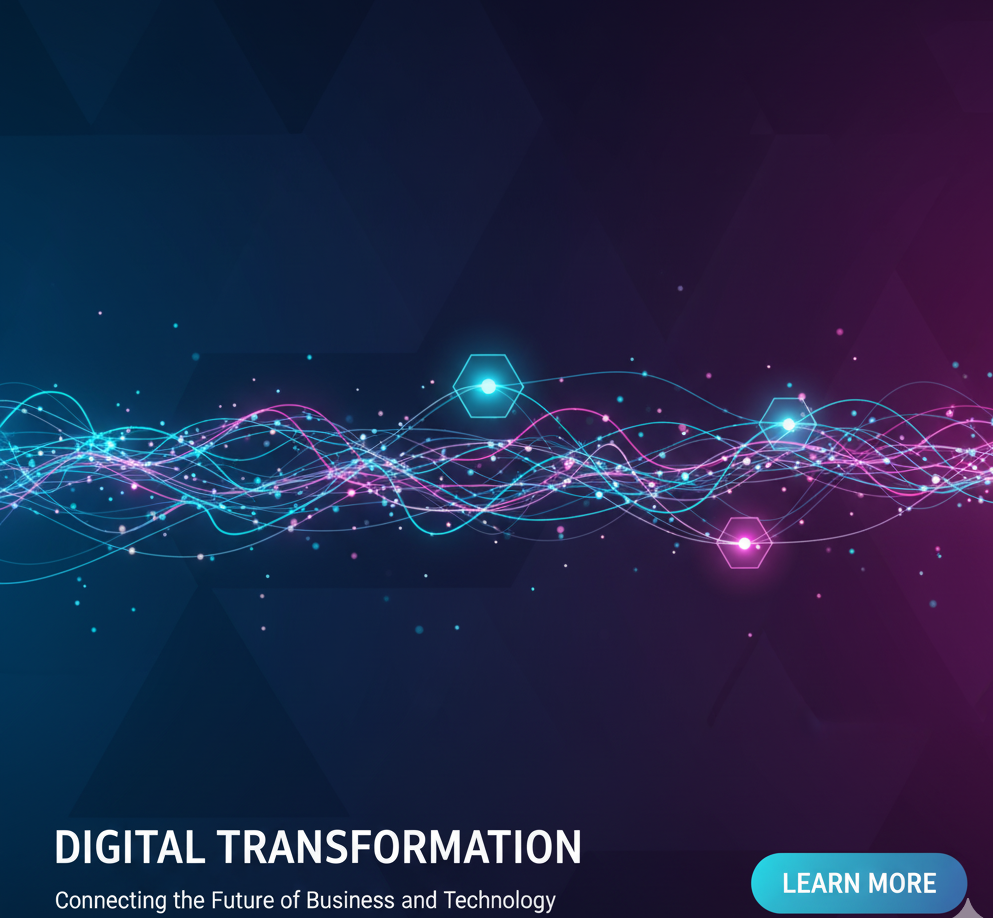
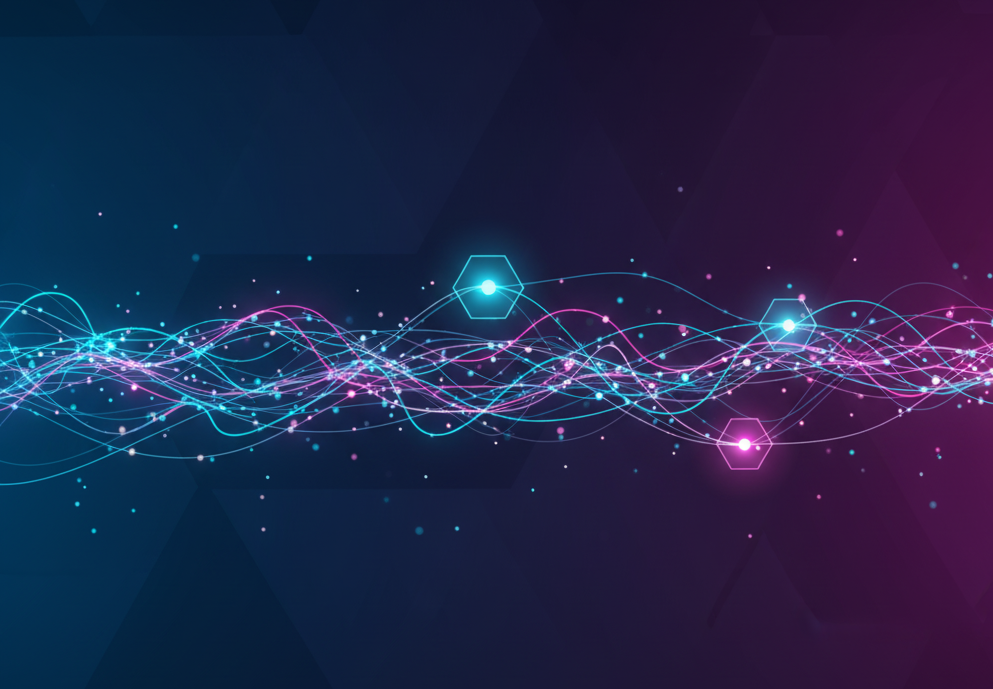
main

diff --git a/index.html b/index.html
@@ -12,7 +12,7 @@
     <link rel="stylesheet" href="css/chat-bot.css">
     <link rel="shortcut icon" href="images/logo1.png" type="image/jpg">
     <style>
-           .fast-accesses {
+        .fast-accesses {
             display: flex;
             justify-content: center;
             align-items: center;
@@ -193,7 +193,7 @@
         <div class="slider-container">
 
             <div class="slide active">
-                <img src="images/home/first.png" alt="Cloud Solutions" class="slide-image">
+                <img src="images/home/home 1[3].png" alt="Cloud Solutions" class="slide-image">
                 <div class="slide-content">
                     <h1><span class="typed-text" id="typed-text"></span></h1>
                 </div>
@@ -275,22 +275,25 @@
                 <h2 class="vid-comp-title">Our Commitment</h2>
                 <div class="vid-comp-list">
                     <div class="vid-comp-item">
-                        <p class="vid-comp-quote">" <b><span style='color:#0074D9;'>Balvirt</b></span>–empowers your business with seamless digital transformation "</p>
+                        <p class="vid-comp-quote">" <b><span style='color:#0074D9;'>Balvirt</b></span>–empowers your
+                            business with seamless digital transformation "</p>
                     </div>
                     <div class="vid-comp-item">
-                        <p class="vid-comp-quote">" <b> <span style='color:#0074D9;'>Balvirt</b></span>– Giving Wings to Your Business Dreams! "</p>
+                        <p class="vid-comp-quote">" <b> <span style='color:#0074D9;'>Balvirt</b></span>– Giving Wings to
+                            Your Business Dreams! "</p>
                     </div>
                     <div class="vid-comp-item">
-                        <p class="vid-comp-quote">" <b> <span style='color:#0074D9;'>Balvirt</b></span>– Simplify, Automate, Dominate! "</p>
+                        <p class="vid-comp-quote">" <b> <span style='color:#0074D9;'>Balvirt</b></span>– Simplify,
+                            Automate, Dominate! "</p>
                     </div>
                 </div>
             </div>
         </div>
-          <div class="fast-accesses">
-    <a href="contact.html" class="contact-btn1">We’re Here to Help</a>
-    <a href="about.html" class="services-btn1">Know More About Us</a>
-    <a href="technology.html" class="carrers-btn1">Explore Our Innovations</a>
-</div>
+        <div class="fast-accesses">
+            <a href="contact.html" class="contact-btn1">We’re Here to Help</a>
+            <a href="about.html" class="services-btn1">Know More About Us</a>
+            <a href="technology.html" class="carrers-btn1">Explore Our Innovations</a>
+        </div>
     </section>
 
     <!-- Footer Section -->
@@ -388,8 +391,9 @@
                 <!-- Newsletter -->
                 <div class="footer-section">
                     <h3 class="footer-title" style="font-size: larger; color: gold;" id="gold">Newsletter</h3>
-                    <p class="newsletter-desc" style="font-size: larger; color: white;">Subscribe to our newsletter for the latest updates and insights.</p>
-                     <form method="POST" action="php/newsletter.php" class="newsletter-form">
+                    <p class="newsletter-desc" style="font-size: larger; color: white;">Subscribe to our newsletter for
+                        the latest updates and insights.</p>
+                    <form method="POST" action="php/newsletter.php" class="newsletter-form">
                         <div class="input-group">
                             <input type="email" name="email" placeholder="Enter your email"
                                 style="font-size: larger; color: white;" required>
@@ -397,114 +401,115 @@
                         </div>
                     </form>
 
-                   
 
-                <!-- Footer Bottom -->
-                <div class="footer-bottom">
-                    <div class="container">
-                        <div class="footer-bottom-content">
+
+                    <!-- Footer Bottom -->
+                    <div class="footer-bottom">
+                        <div class="container">
+                            <div class="footer-bottom-content">
+                            </div>
+                            <p id="footer" style="text-align: center;">&copy; 2025 Balvirt </p>
                         </div>
-                        <p id="footer" style="text-align: center;">&copy; 2025 Balvirt </p>
                     </div>
-                </div>
 
-                <!-- Scroll to Top Button (Now goes to IT Consulting) -->
-                <button class="scroll-to-top">
-                    <i class="fas fa-chevron-up"></i>
-                </button>
+                    <!-- Scroll to Top Button (Now goes to IT Consulting) -->
+                    <button class="scroll-to-top">
+                        <i class="fas fa-chevron-up"></i>
+                    </button>
+                </div>
             </div>
-        </div>
     </footer>
 
     <!-- Scroll to Section Buttons (Always visible on page load) -->
     <button class="scroll-to-section scroll-to-consulting">
         <i class="fas fa-laptop-code"></i>
     </button>
-    
+
     <button class="scroll-to-section scroll-to-services">
         <i class="fas fa-cogs"></i>
     </button>
-    
+
     <button class="scroll-to-section scroll-to-contact">
         <i class="fas fa-envelope"></i>
     </button>
-        
-     <div class="balvirt-chatbot-icon">
-    <i class="fas fa-robot"></i>
-    <span class="balvirt-chatbot-dot"></span>
-</div>
 
-<div class="balvirt-chatbot-box balvirt-chatbot-hidden">
-    <div class="balvirt-chatbot-header">
-        <h3>Balvirt Assistant</h3>
-        <button class="balvirt-chatbot-close">×</button>
+    <div class="balvirt-chatbot-icon">
+        <i class="fas fa-robot"></i>
+        <span class="balvirt-chatbot-dot"></span>
     </div>
 
-    <!-- Chatbot Navigation Tabs -->
-    <div class="balvirt-chatbot-nav">
-        <button class="balvirt-chatbot-tab balvirt-chatbot-active" data-section="home">Home</button>
-        <button class="balvirt-chatbot-tab" data-section="services">Services</button>
-        <button class="balvirt-chatbot-tab" data-section="industries">Industries</button>
-        <button class="balvirt-chatbot-tab" data-section="technology">Tech</button>
-        <button class="balvirt-chatbot-tab" data-section="careers">Careers</button>
-        <button class="balvirt-chatbot-tab" data-section="about">About</button>
-        <button class="balvirt-chatbot-tab" data-section="contact">Contact</button>
-    </div>
+    <div class="balvirt-chatbot-box balvirt-chatbot-hidden">
+        <div class="balvirt-chatbot-header">
+            <h3>Balvirt Assistant</h3>
+            <button class="balvirt-chatbot-close">×</button>
+        </div>
 
-    <!-- Chat Messages Area -->
-    <div class="balvirt-chatbot-messages">
-        <div class="balvirt-chatbot-message balvirt-chatbot-bot-message">
-            <div class="balvirt-chatbot-content">
-                <p>Hello! 👋 I'm Balvirt Assistant. Select a category above to explore our services and solutions.</p>
+        <!-- Chatbot Navigation Tabs -->
+        <div class="balvirt-chatbot-nav">
+            <button class="balvirt-chatbot-tab balvirt-chatbot-active" data-section="home">Home</button>
+            <button class="balvirt-chatbot-tab" data-section="services">Services</button>
+            <button class="balvirt-chatbot-tab" data-section="industries">Industries</button>
+            <button class="balvirt-chatbot-tab" data-section="technology">Tech</button>
+            <button class="balvirt-chatbot-tab" data-section="careers">Careers</button>
+            <button class="balvirt-chatbot-tab" data-section="about">About</button>
+            <button class="balvirt-chatbot-tab" data-section="contact">Contact</button>
+        </div>
+
+        <!-- Chat Messages Area -->
+        <div class="balvirt-chatbot-messages">
+            <div class="balvirt-chatbot-message balvirt-chatbot-bot-message">
+                <div class="balvirt-chatbot-content">
+                    <p>Hello! 👋 I'm Balvirt Assistant. Select a category above to explore our services and solutions.
+                    </p>
+                </div>
             </div>
         </div>
-    </div>
 
-    <!-- Typing Indicator -->
-    <div class="balvirt-chatbot-typing balvirt-chatbot-hidden">
-        <div class="balvirt-chatbot-dots">
-            <span></span>
-            <span></span>
-            <span></span>
+        <!-- Typing Indicator -->
+        <div class="balvirt-chatbot-typing balvirt-chatbot-hidden">
+            <div class="balvirt-chatbot-dots">
+                <span></span>
+                <span></span>
+                <span></span>
+            </div>
+        </div>
+
+        <!-- Chat Input -->
+        <div class="balvirt-chatbot-input-container">
+            <input type="text" class="balvirt-chatbot-input" placeholder="Type your message here...">
+            <button class="balvirt-chatbot-send">
+                <i class="fas fa-paper-plane"></i>
+            </button>
         </div>
     </div>
-
-    <!-- Chat Input -->
-    <div class="balvirt-chatbot-input-container">
-        <input type="text" class="balvirt-chatbot-input" placeholder="Type your message here...">
-        <button class="balvirt-chatbot-send">
-            <i class="fas fa-paper-plane"></i>
-        </button>
-    </div>
-</div>
 
 
     <script src="js/chatbothome.js"></script>
 
     <script src="https://cdn.jsdelivr.net/npm/typed.js@2.0.12"></script>
     <script src="script.js"></script>
-       <script src="js/newsletter.js"></script>
-    
+    <script src="js/newsletter.js"></script>
+
     <script>
         // Scroll to section functionality
-        document.addEventListener('DOMContentLoaded', function() {
+        document.addEventListener('DOMContentLoaded', function () {
             // Get all scroll buttons
             const scrollToConsultingBtn = document.querySelector('.scroll-to-consulting');
             const scrollToServicesBtn = document.querySelector('.scroll-to-services');
             const scrollToContactBtn = document.querySelector('.scroll-to-contact');
             const scrollToTopBtn = document.querySelector('.scroll-to-top');
-            
+
             // Show/hide scroll-to-top button based on scroll position
-            window.addEventListener('scroll', function() {
+            window.addEventListener('scroll', function () {
                 if (window.scrollY > 300) {
                     scrollToTopBtn.classList.add('show');
                 } else {
                     scrollToTopBtn.classList.remove('show');
                 }
             });
-            
+
             // Scroll to IT Consulting section
-            scrollToConsultingBtn.addEventListener('click', function() {
+            scrollToConsultingBtn.addEventListener('click', function () {
                 // Find the IT Consulting section (you may need to adjust the selector)
                 const consultingSection = document.querySelector('.vision-section');
                 if (consultingSection) {
@@ -513,21 +518,21 @@
                     });
                 }
             });
-            
+
             // Scroll to Services section
-            scrollToServicesBtn.addEventListener('click', function() {
+            scrollToServicesBtn.addEventListener('click', function () {
                 // Navigate to services page
                 window.location.href = 'services.html';
             });
-            
+
             // Scroll to Contact section
-            scrollToContactBtn.addEventListener('click', function() {
+            scrollToContactBtn.addEventListener('click', function () {
                 // Navigate to contact page
                 window.location.href = 'contact.html';
             });
-            
+
             // Scroll to IT Consulting when clicking scroll-to-top button
-            scrollToTopBtn.addEventListener('click', function() {
+            scrollToTopBtn.addEventListener('click', function () {
                 const consultingSection = document.querySelector('.vision-section');
                 if (consultingSection) {
                     consultingSection.scrollIntoView({

diff --git a/js/chatbot.js b/js/chatbot.js
@@ -32,7 +32,7 @@ const chatbotSections = {
         questions: [
             {
                 question: "What are the main services offered by Balvirt?",
-                answer: "Balvirt provides comprehensive IT solutions including:<br>• Full-stack web development<br>• Mobile app development<br>• Cloud computing & hosting<br>• UI/UX design<br>• AI & machine learning integration<br>• Cybersecurity & IT consulting<br>• Digital marketing and branding services"
+                answer: "Balvirt provides comprehensive IT solutions including:<br>• Full-stack web development<br>• Mobile app development<br>• Cloud computing & hosting<br>• UI/UX design<br>• AI & machine learning integration<br>• Cybersecurity & IT consulting<br>• Digital marketing and branding services<br>Looking for what we can do for you? Head over to the Services Page to find out."
             },
             {
                 question: "What web development services do you provide?",
@@ -73,7 +73,7 @@ const chatbotSections = {
         questions: [
             {
                 question: "Which industries does Balvirt serve?",
-                answer: "Balvirt provides solutions for:<br>• Education and E-Learning<br>• Healthcare and Pharmaceuticals<br>• Retail and E-commerce<br>• Finance and Banking<br>• Manufacturing and Industrial Automation<br>• Travel and Tourism<br>• Real Estate and Property Management<br>• Information Technology and Software"
+                answer: "Balvirt provides solutions for:<br>• Education and E-Learning<br>• Healthcare and Pharmaceuticals<br>• Retail and E-commerce<br>• Finance and Banking<br>• Manufacturing and Industrial Automation<br>• Travel and Tourism<br>• Real Estate and Property Management<br>• Information Technology and Software<br>To explore how we work across various sectors, check out the Industries Page."
             },
             {
                 question: "Do you work with startups and small businesses?",
@@ -106,7 +106,7 @@ const chatbotSections = {
         questions: [
             {
                 question: "What technologies does Balvirt use for development?",
-                answer: "Balvirt's tech stack includes HTML5, CSS3, JavaScript, React, Node.js, Python, Django, Flutter, and cloud solutions like AWS and Azure."
+                answer: "Balvirt's tech stack includes HTML5, CSS3, JavaScript, React, Node.js, Python, Django, Flutter, and cloud solutions like AWS and Azure.<br>Looking for more details? Visit the Technology Page for everything you need!"
             },
             {
                 question: "Which database systems do you use?",
@@ -168,7 +168,7 @@ const chatbotSections = {
         questions: [
             {
                 question: "Who created Balvirt?",
-                answer: "Balvirt was founded by a passionate team focused on digital innovation and technology solutions."
+                answer: "Balvirt was founded by a passionate team focused on digital innovation and technology solutions<br>If you're interested, feel free to explore the About Page for more details."
             },
             {
                 question: "Where is Balvirt located?",

diff --git a/why-us.html b/why-us.html
@@ -189,7 +189,7 @@
                     <p>Our team consists of certified NetSuite professionals who have successfully delivered solutions across diverse industries such as manufacturing, retail, finance, and technology. Each consultant brings not only technical skills but also strong business acumen, ensuring that our solutions align with your strategic objectives. With years of proven expertise, we help organizations overcome complex challenges, optimize processes, and stay ahead of the competition.</p>
                 </div>
                 <div class="choose-img">
-                    <img src="images/experincedteam1.png" alt="Experienced Team">
+                    <img src="images/experincedteam 2.png.jpg" alt="Experienced Team">
                 </div>
             </div>
             </div>

diff --git a/script.js b/script.js
@@ -436,10 +436,10 @@ class NavigationManager {
 class Utilities {
     static preloadImages() {
         const imageUrls = [
-            'images/home/home 2.jpg',
+            'images/home/home 1[3].png',
             'images/home/second.png',
             'images/home/netsuite.png',
-            'images/home/netsuite.png'
+            'images/home/home 2.jpg'
         ];
 
         imageUrls.forEach(url => {
